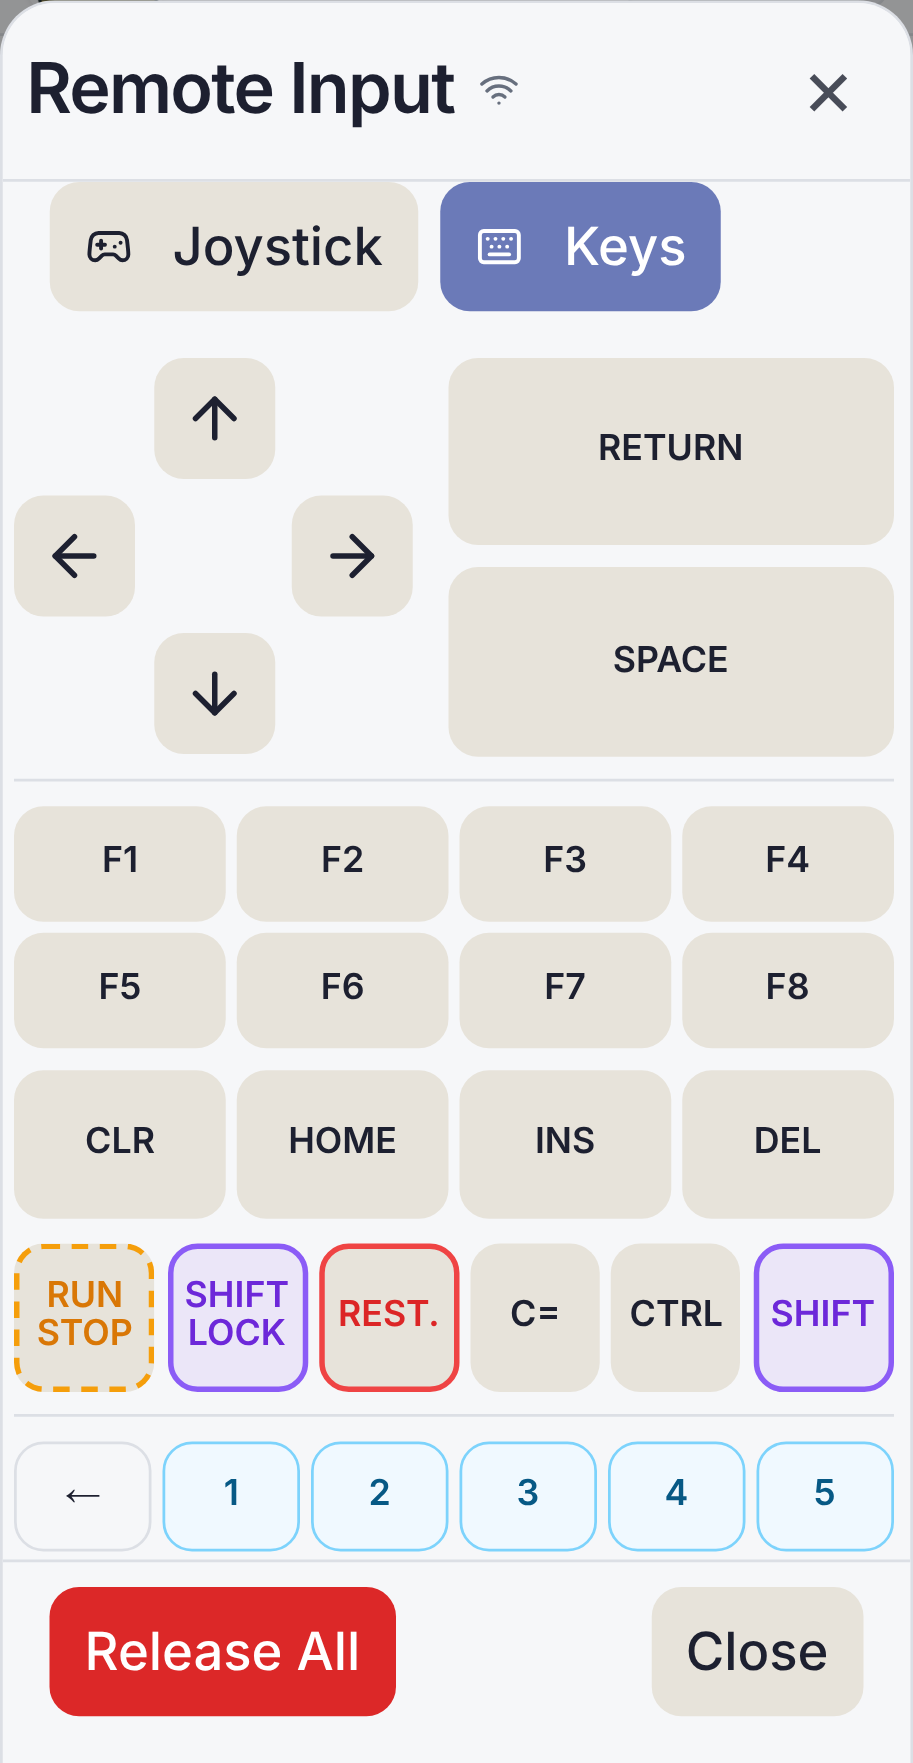
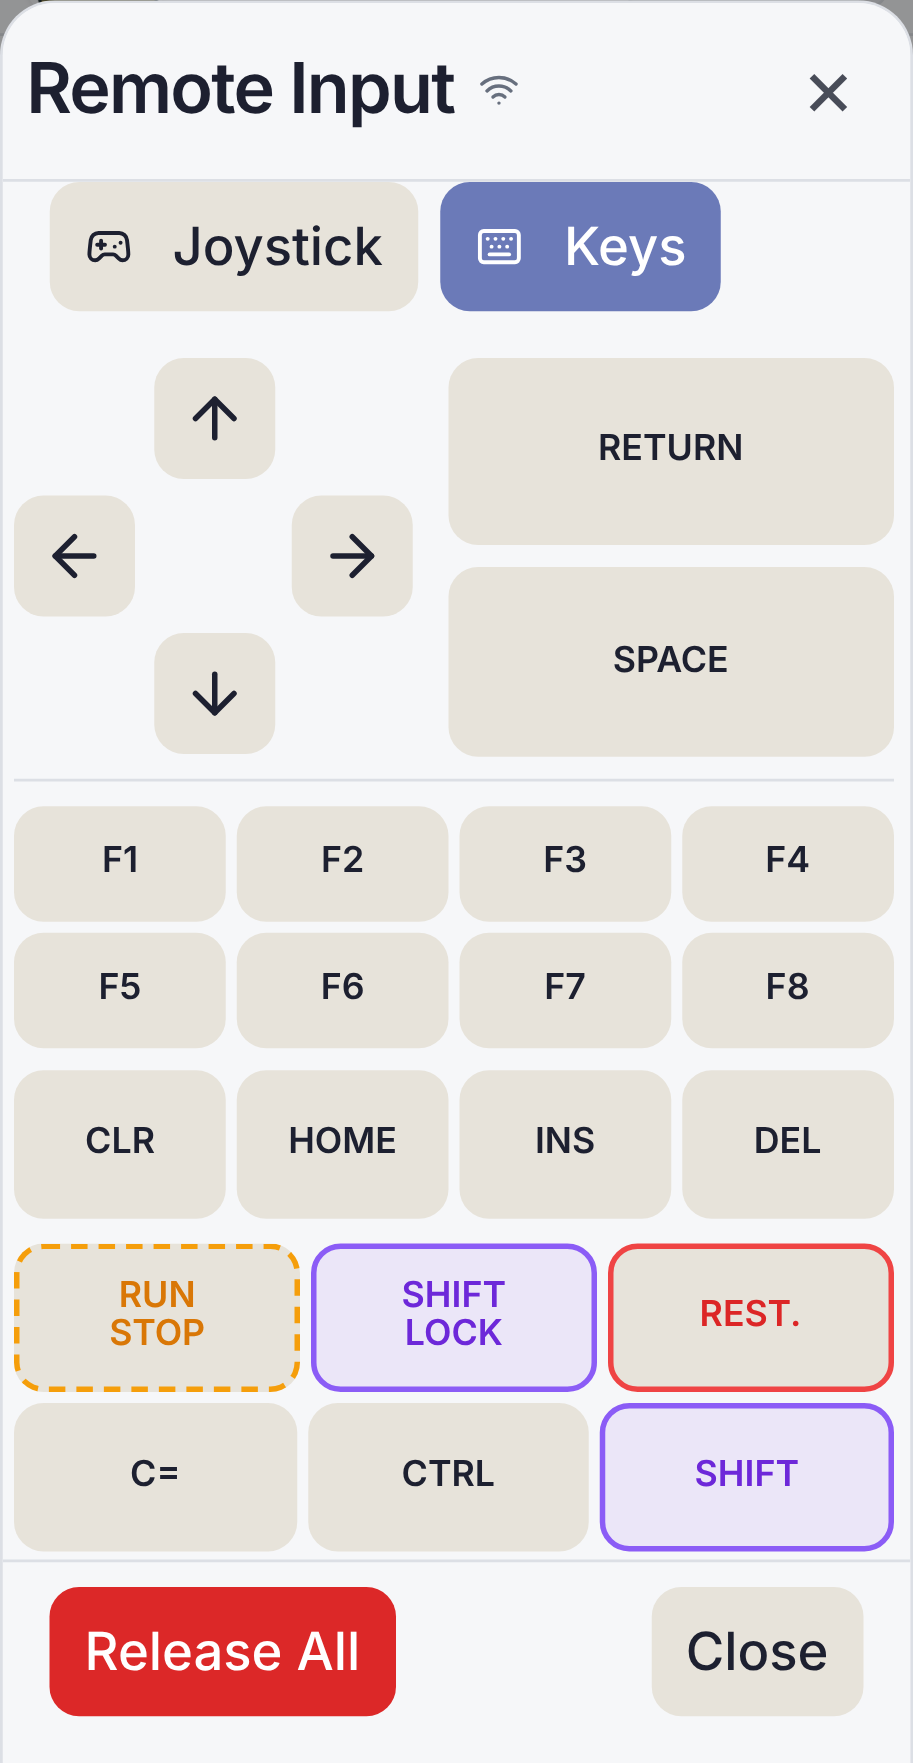
feat(remote-input): two-row F-keys/system, bottom SHIFT|SPACE|RETURN, fit + no-select
- Function keys always render in two rows (F1-F4 / F5-F8) on compact AND medium.
- The system keys split into two rows: RUN/STOP·SHIFT-LOCK·RESTORE / C=·CTRL·SHIFT.
- The bottom row is now SHIFT (left) · a wide SPACE · RETURN (right), so SHIFT,
  SPACE and RETURN each appear twice (top/system + bottom) for thumb reach.
- SHIFT and SHIFT LOCK use the same high-visibility "shift" colour everywhere
  they occur (deck system row, bottom row, expanded rows).
- Key caps use the short label on the dense profiles (compact AND expanded) so
  RESTORE shows "REST." in expanded and caps never overflow their key boundary
  (the key already clips via overflow-hidden, so nothing overlaps a neighbour).
- Disable Android/iOS long-press text-selection, magnifier, and clipboard callout
  on the sheet AND every descendant (!important), so any key/virtual button can be
  held indefinitely without the WebView offering to select its text.

Tests updated (bottomRow SHIFT|SPACE|RETURN, two-row function+system on compact
and medium); cta-inventory + Remote Input screenshots refreshed.

Changed region(s): [[0.0, 0.6863, 0.9814, 0.9047]]

diff --git a/src/components/remoteInput/TypeKeyboard.tsx b/src/components/remoteInput/TypeKeyboard.tsx
@@ -197,7 +197,10 @@ export const TypeKeyboard = ({
       (isModifier && activeModifiers.has((def.action as { modifier: StickyModifier }).modifier)) ||
       (isShiftLock && shiftLocked);
     const disabled = keyUnavailable(def);
-    const label = profile === "compact" && def.compactLabel ? def.compactLabel : def.label;
+    // Use the short label on the dense profiles (compact and expanded) so caps
+    // like RESTORE (-> "REST.") always fit inside the key; medium has room for
+    // the full word.
+    const label = profile !== "medium" && def.compactLabel ? def.compactLabel : def.label;
     const Icon = def.icon;
     const iconPx = Math.max(15, Math.round(keyFontPx * 1.35));
     // Shifted legend printed ABOVE the main label (smaller, fainter) like a real
@@ -300,21 +303,27 @@ export const TypeKeyboard = ({
                 function keys below. */}
             <div className="border-t border-border" role="separator" />
 
-            {/* Function keys — two rows on compact (F1–F4 / F5–F8), one row otherwise. */}
+            {/* Function keys — always two rows (F1–F4 / F5–F8) on compact and medium. */}
             <div className="flex flex-col gap-1" data-testid="remote-input-keyboard-function">
-              {(profile === "compact" ? chunk(layout.functionKeys, 4) : [layout.functionKeys]).map((row, rowIndex) => (
+              {chunk(layout.functionKeys, 4).map((row, rowIndex) => (
                 <div key={rowIndex} className="flex gap-1">
                   {row.map((def) => renderKey(def, { heightPx: deckKeyHeightPx, grow: true }))}
                 </div>
               ))}
             </div>
 
-            {/* High-value special keys, larger and immediately below the F-keys. */}
+            {/* High-value special keys, larger and immediately below the F-keys.
+                Edit row, then the system keys split into two rows: RUN/STOP,
+                SHIFT-LOCK, RESTORE / C=, CTRL, SHIFT. */}
             <div className="flex flex-wrap gap-1" data-testid="remote-input-keyboard-edit">
               {layout.edit.map((def) => renderKey(def, { heightPx: systemKeyHeightPx, grow: true }))}
             </div>
-            <div className="flex flex-wrap gap-1" data-testid="remote-input-keyboard-system">
-              {layout.system.map((def) => renderKey(def, { heightPx: systemKeyHeightPx, grow: true }))}
+            <div className="flex flex-col gap-1" data-testid="remote-input-keyboard-system">
+              {chunk(layout.system, 3).map((row, rowIndex) => (
+                <div key={rowIndex} className="flex gap-1">
+                  {row.map((def) => renderKey(def, { heightPx: systemKeyHeightPx, grow: true }))}
+                </div>
+              ))}
             </div>
           </div>
 
@@ -328,9 +337,15 @@ export const TypeKeyboard = ({
             ))}
           </div>
 
-          {/* Second SPACE at the very bottom of the normal keys. */}
-          <div className="flex" data-testid="remote-input-keyboard-bottom-space">
-            {renderKey(layout.bottomSpace, { heightPx: deckKeyHeightPx, grow: true })}
+          {/* Bottom row: SHIFT (left) — a wide SPACE — RETURN (right). */}
+          <div
+            className="flex items-stretch gap-1"
+            style={{ height: deckKeyHeightPx }}
+            data-testid="remote-input-keyboard-bottom-row"
+          >
+            <div className="flex flex-1">{renderKey(layout.bottomRow[0], { fill: true })}</div>
+            <div className="flex flex-[2]">{renderKey(layout.bottomRow[1], { fill: true })}</div>
+            <div className="flex flex-1">{renderKey(layout.bottomRow[2], { fill: true })}</div>
           </div>
         </div>
       ) : (

diff --git a/tests/unit/components/remoteInput/TypeKeyboard.test.tsx b/tests/unit/components/remoteInput/TypeKeyboard.test.tsx
@@ -91,23 +91,29 @@ describe("TypeKeyboard", () => {
       expect(screen.getByTestId("remote-input-type-keyboard")).toHaveAttribute("data-profile", "medium");
     });
 
-    it("splits the function keys into two rows on compact but one row on medium", () => {
-      renderKeyboard("compact");
-      expect(screen.getByTestId("remote-input-keyboard-function").children.length).toBe(2);
-      expect(
-        within(screen.getByTestId("remote-input-keyboard-function")).getByTestId("remote-input-key-f8"),
-      ).toBeInTheDocument();
-      cleanup();
-      renderKeyboard("medium");
-      expect(screen.getByTestId("remote-input-keyboard-function").children.length).toBe(1);
-    });
+    it.each(["compact", "medium"] as const)(
+      "splits the function keys and the system keys into two rows on %s",
+      (profile) => {
+        renderKeyboard(profile);
+        expect(screen.getByTestId("remote-input-keyboard-function").children.length).toBe(2);
+        expect(
+          within(screen.getByTestId("remote-input-keyboard-function")).getByTestId("remote-input-key-f8"),
+        ).toBeInTheDocument();
+        // System keys split RUN/STOP·SHIFT-LOCK·RESTORE / C=·CTRL·SHIFT.
+        expect(screen.getByTestId("remote-input-keyboard-system").children.length).toBe(2);
+      },
+    );
 
-    it("renders a second full-width SPACE at the bottom of the deck (SPACE appears twice)", () => {
+    it("renders a SHIFT | SPACE | RETURN bottom row (SPACE/RETURN/SHIFT appear twice)", () => {
       renderKeyboard("compact");
-      const bottom = screen.getByTestId("remote-input-keyboard-bottom-space");
+      const bottom = screen.getByTestId("remote-input-keyboard-bottom-row");
+      expect(within(bottom).getByTestId("remote-input-key-shift-bottom")).toBeInTheDocument();
       expect(within(bottom).getByTestId("remote-input-key-space-bottom")).toBeInTheDocument();
-      // The top immediate SPACE is still present too.
+      expect(within(bottom).getByTestId("remote-input-key-return-bottom")).toBeInTheDocument();
+      // The top immediate SPACE/RETURN and the system SHIFT are still present too.
       expect(screen.getByTestId("remote-input-key-space")).toBeInTheDocument();
+      expect(screen.getByTestId("remote-input-key-return")).toBeInTheDocument();
+      expect(screen.getByTestId("remote-input-key-shift")).toBeInTheDocument();
     });
   });
 

diff --git a/src/lib/remoteInput/keyboardLayout.ts b/src/lib/remoteInput/keyboardLayout.ts
@@ -97,8 +97,8 @@ export type KeyboardDeckLayout = {
   system: KeyDef[];
   /** Scrollable alphanumeric / symbol grid (logical wrapping, not physical C64 rows). */
   grid: KeyDef[][];
-  /** A second full-width SPACE pinned below the grid. */
-  bottomSpace: KeyDef;
+  /** A bottom row pinned below the grid: SHIFT, a wide SPACE, and RETURN. */
+  bottomRow: KeyDef[];
 };
 
 /** Row-based layout (expanded): the physical C64 rows rendered as closely as practical. */
@@ -237,6 +237,14 @@ const SPACE_BOTTOM: KeyDef = {
   testId: "remote-input-key-space-bottom",
   ariaLabel: "Space (bottom)",
 };
+// RETURN repeated to the right of the bottom SPACE (distinct id/testid).
+const RETURN_BOTTOM: KeyDef = {
+  ...RETURN,
+  id: "return-bottom",
+  testId: "remote-input-key-return-bottom",
+  ariaLabel: "Return (bottom)",
+  span: 1,
+};
 
 // Edit keys — split from the C64's dual-function physical keys into direct keys.
 const HOME: KeyDef = {
@@ -356,6 +364,14 @@ const SHIFT_LOCK: KeyDef = {
   action: { kind: "shift_lock" },
   tone: "shift",
 };
+// A second SHIFT to the LEFT of the bottom SPACE (distinct id/testid; same
+// latch behaviour and colour as the SHIFT above the grid).
+const SHIFT_BOTTOM: KeyDef = {
+  ...SHIFT,
+  id: "shift-bottom",
+  testId: "remote-input-key-shift-bottom",
+  ariaLabel: "Shift (bottom)",
+};
 
 // Secondary legends for the number row (authentic C64 shifted symbols).
 const NUMBER_ROW_SECONDARY: Record<string, string> = {
@@ -386,6 +402,8 @@ const FUNCTION_GROUP: KeyDef[] = [
   functionKey(8),
 ];
 const SYSTEM_GROUP: KeyDef[] = [RUN_STOP, SHIFT_LOCK, RESTORE, COMMODORE, CTRL, SHIFT];
+// Bottom row: SHIFT (left) — wide SPACE — RETURN (right).
+const BOTTOM_ROW: KeyDef[] = [SHIFT_BOTTOM, SPACE_BOTTOM, RETURN_BOTTOM];
 
 // --- Profile layouts --------------------------------------------------------
 
@@ -502,7 +520,7 @@ export const getKeyboardLayout = (profile: KeyboardProfile): KeyboardLayout => {
         functionKeys: FUNCTION_GROUP,
         system: SYSTEM_GROUP,
         grid: DECK_GRID,
-        bottomSpace: SPACE_BOTTOM,
+        bottomRow: BOTTOM_ROW,
       };
     case "expanded":
       return { kind: "rows", rows: EXPANDED_ROWS, functionKeys: FUNCTION_GROUP };
@@ -518,7 +536,7 @@ export const flattenLayoutKeys = (layout: KeyboardLayout): KeyDef[] =>
         ...layout.functionKeys,
         ...layout.system,
         ...layout.grid.flat(),
-        layout.bottomSpace,
+        ...layout.bottomRow,
       ]
     : [...layout.rows.flat(), ...layout.functionKeys];
 

diff --git a/src/index.css b/src/index.css
@@ -822,11 +822,17 @@ button:focus-visible,
   }
 }
 
-/* Remote Input is a held-control surface (FIRE, D-pad, keys): a long-press must
-   keep firing/repeating, never trigger the WebView's text-selection or
-   copy/callout on the button glyphs. Disable selection across the whole sheet. */
-[data-testid="remote-input-sheet"] {
-  -webkit-user-select: none;
-  user-select: none;
-  -webkit-touch-callout: none;
+/* Remote Input is a held-control surface (FIRE, D-pad, keys, quick bar, keyboard):
+   a long-press must keep firing/repeating, never trigger the WebView's
+   text-selection, magnifier, or copy/paste callout on the button glyphs. Force
+   selection/callout off on the sheet AND every descendant (buttons, spans,
+   labels) — the sheet-level rule alone did not stop Android/iOS from selecting a
+   key's text on a long hold. `!important` beats any per-component style. */
+[data-testid="remote-input-sheet"],
+[data-testid="remote-input-sheet"] * {
+  -webkit-user-select: none !important;
+  -moz-user-select: none !important;
+  user-select: none !important;
+  -webkit-touch-callout: none !important;
+  -webkit-tap-highlight-color: transparent !important;
 }

diff --git a/tests/unit/lib/remoteInput/keyboardLayout.test.ts b/tests/unit/lib/remoteInput/keyboardLayout.test.ts
@@ -180,15 +180,20 @@ describe("getKeyboardLayout", () => {
     expect(legend("remote-input-key-slash")).toBe("?");
   });
 
-  it.each(["compact", "medium"] as const)("adds a second full-width SPACE at the bottom of the %s deck", (profile) => {
+  it.each(["compact", "medium"] as const)("pins a SHIFT | SPACE | RETURN bottom row below the %s grid", (profile) => {
     const layout = getKeyboardLayout(profile);
     if (layout.kind !== "deck") throw new Error(`${profile} layout must be deck-based`);
-    expect(layout.bottomSpace.testId).toBe("remote-input-key-space-bottom");
-    expect(layout.bottomSpace.action).toEqual({ kind: "char", char: " " });
-    // The top immediate SPACE is still present and distinct.
-    const topSpace = layout.immediate.find((k) => k.testId === "remote-input-key-space");
-    expect(topSpace).toBeDefined();
-    expect(layout.bottomSpace.id).not.toBe(topSpace?.id);
+    expect(layout.bottomRow.map((k) => k.testId)).toEqual([
+      "remote-input-key-shift-bottom",
+      "remote-input-key-space-bottom",
+      "remote-input-key-return-bottom",
+    ]);
+    // SPACE/RETURN repeat their top counterparts (distinct ids), SHIFT its colour.
+    expect(layout.bottomRow[1].action).toEqual({ kind: "char", char: " " });
+    expect(layout.bottomRow[2].action).toEqual({ kind: "char", char: "\n" });
+    expect(layout.bottomRow[0].tone).toBe("shift");
+    expect(layout.immediate.some((k) => k.testId === "remote-input-key-space")).toBe(true);
+    expect(layout.immediate.some((k) => k.testId === "remote-input-key-return")).toBe(true);
   });
 
   it("colours the ordinary typing keys (0-9, A-Z) with the character tone and SHIFT with the shift tone", () => {

diff --git a/docs/cta-inventory.md b/docs/cta-inventory.md
@@ -391,15 +391,17 @@ up-right,down-left,down-right}` — R✅ I✅ (touch only)
   Compact/medium profiles render a high-value deck
   (`remote-input-keyboard-deck`: cursor pad `remote-input-cursor-pad-group` +
   immediate RETURN/SPACE `remote-input-keyboard-immediate`, then F1–F8
-  `remote-input-keyboard-function` — split into two rows F1–F4/F5–F8 on compact,
-  one row otherwise — then the larger high-value special keys directly below:
-  CLR/HOME/INS/DEL `remote-input-keyboard-edit` and
-  RUN/STOP/SHIFT-LOCK/RESTORE/C=/CTRL/SHIFT `remote-input-keyboard-system`),
-  then the alphanumeric/symbol grid (`remote-input-keyboard-grid`), and finally
-  a second full-width SPACE `remote-input-keyboard-bottom-space`
-  (`remote-input-key-space-bottom`) so SPACE appears twice (top beside RETURN +
-  very bottom). Ordinary typing keys 0-9/A-Z carry a distinct "character" colour,
-  SHIFT and SHIFT LOCK a distinct high-visibility "shift" colour. Every grid row
+  `remote-input-keyboard-function` — always two rows F1–F4/F5–F8 (compact and
+  medium) — then the larger high-value special keys directly below: CLR/HOME/INS/DEL
+  `remote-input-keyboard-edit` and the system keys `remote-input-keyboard-system`
+  split into two rows RUN/STOP·SHIFT-LOCK·RESTORE / C=·CTRL·SHIFT), then the
+  alphanumeric/symbol grid (`remote-input-keyboard-grid`), and finally a bottom
+  row `remote-input-keyboard-bottom-row` of SHIFT · wide SPACE · RETURN
+  (`remote-input-key-shift-bottom`, `remote-input-key-space-bottom`,
+  `remote-input-key-return-bottom`) so SHIFT, SPACE and RETURN each appear twice
+  (top/system + bottom). Ordinary typing keys 0-9/A-Z carry a distinct
+  "character" colour, SHIFT and SHIFT LOCK a distinct high-visibility "shift"
+  colour applied consistently wherever they appear. Every grid row
   is a contiguous slice of exactly one physical C64 row (segment invariant — no
   split QWERTY rows, no horizontal scrolling); the deck and grid share one scroll
   container (`remote-input-keyboard-scroll`) so the whole keyboard scrolls as a